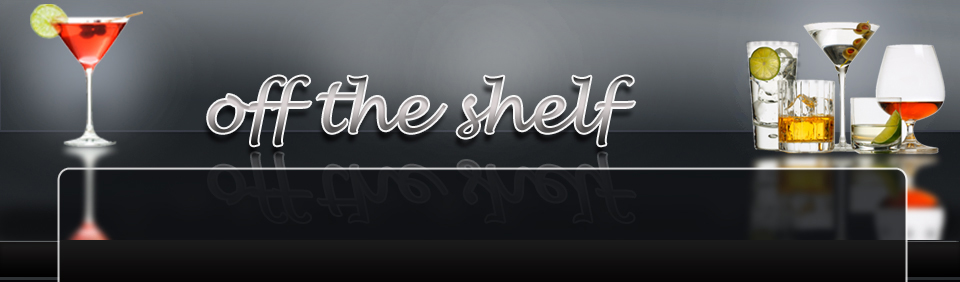
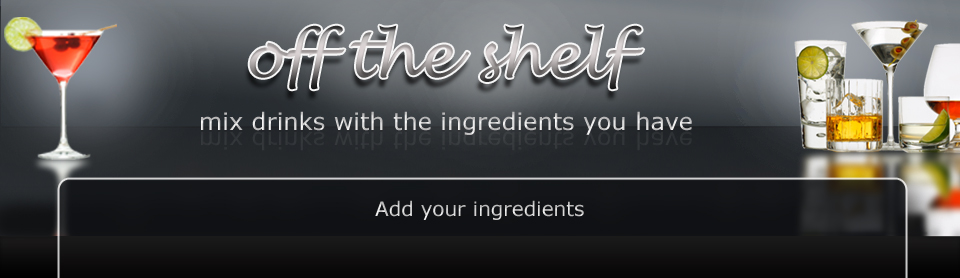
header image

diff --git a/public/stylesheets/common.css b/public/stylesheets/common.css
@@ -10,7 +10,7 @@ h2 {font-family: Verdana, Arial, Helvetica, sans-serif; font-size:1.0em; color:#
 .clear {clear: both;}
 
 #wrapper {width: 960px; margin: 0 auto; background-color: #070709; border: 2px solid #727274; }
-#banner_top {background-image:url(../images/header2.jpg); margin: 0; height: 279px;}
+#banner_top {background-image:url(../images/header3.jpg); margin: 0; height: 279px;}
 #search_wrap {float:right; height: 25px; width: 330px; margin: 200px 10px 0 0;}
 #your_shelf {color: #ffffff;}
 
